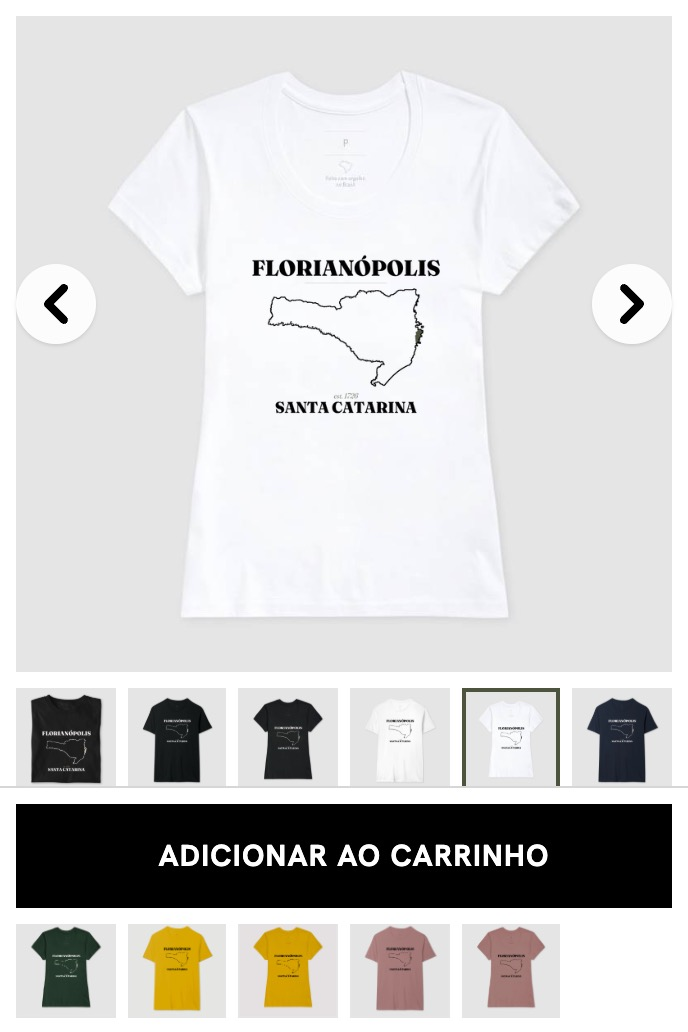
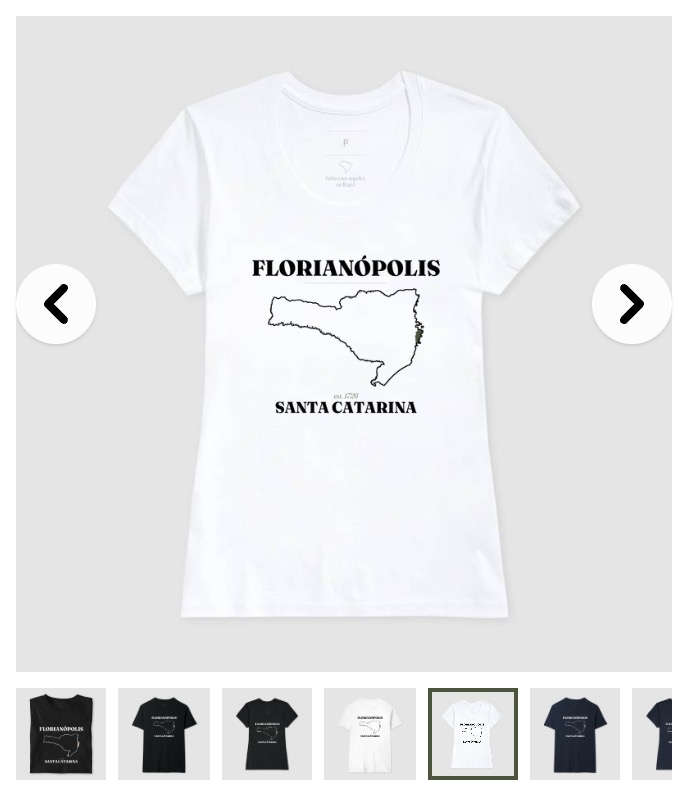
feat(worker): miniaturas da galeria numa linha com rolagem lateral
Pedido do dono: quando as miniaturas não cabem na largura da foto principal,
uma linha com rolagem lateral em vez de quebrar em linhas. ~6,5 visíveis no
celular e ~7,5 no computador (a metade da próxima mostra que há mais; até
84 px), e a miniatura ativa entra na área visível quando a foto muda por
seta, swipe ou troca de cor.

Corrige também a grade que sumia por alguns segundos ao voltar pelo cache do
Turbo: o carrossel da INK se reconecta e refaz a lista de pontos; com o
mesmo produto, a grade agora fica e passa a observar a lista nova.

diff --git a/src/loader/theme-ui.js b/src/loader/theme-ui.js
@@ -9,7 +9,8 @@
 // Restauração do cache do Turbo (voltar/avançar sem nova requisição): o <body> restaurado é o ANTIGO. Por isso vale o último estado vindo da REDE (carga
 // inteira ou visita Turbo que buscou a página): numa restauração, o atributo do body é corrigido para ele — um tema desligado depois não volta pelo cache.
 //
-//   PDP  · Miniaturas da galeria: uma grade abaixo da foto com TODAS as fotos do conjunto nativo, na ordem nativa (mesmas URLs, carregamento preguiçoso).
+//   PDP  · Miniaturas da galeria: uma linha abaixo da foto com TODAS as fotos do conjunto nativo, na ordem nativa (mesmas URLs, carregamento preguiçoso);
+//          quando não cabem na largura da foto, rolagem lateral, e a ativa é trazida para a área visível.
 //          Tocar numa miniatura aciona o ponto nativo correspondente (#dot-image-N); a seleção acompanha `aria-current` dos pontos (setas, swipe, troca de
 //          cor/modelo — a INK pula para a foto da variante). Navegar por fotos NÃO muda a variante comprável (só os rádios mudam). Os pontos nativos só
 //          somem (classe o-thumbs) depois de a grade estar montada; uma foto só = sem grade.
@@ -41,7 +42,7 @@ export const THEME_UI = String.raw`
   let themeObserver = null;
   let themeListening = false;
   let themeOpener = null;
-  let themeGallery = null;  // { host, list, grid, observer, body }
+  let themeGallery = null;  // { host, list, key, grid, observer, body, sync }
   let themeChoosing = null; // { targets, observer }
   let themeMoves = [];      // [{ node, restore }]
   let themeResize = null;
@@ -112,11 +113,21 @@ export const THEME_UI = String.raw`
   function themeWatchGallery() {
     const host = document.querySelector('.section-product-v2 [data-controller~="ink-store--carousel"]');
     const list = host && host.querySelector('ul.absolute.z-30');
-    if (themeGallery && themeGallery.host === host && themeGallery.list === list && themeGallery.body === themeBody() && themeGallery.grid.isConnected) return;
+    const slides = host ? [...host.querySelectorAll('ul.aspect-square > li')] : [];
+    const key = slides.map((li) => { const img = li.querySelector('img'); return img ? img.getAttribute('src') : ''; }).join('|');
+    const g = themeGallery;
+    if (g && g.host === host && g.key === key && g.body === themeBody() && g.grid.isConnected) {
+      // Mesmo produto e mesmas fotos. A INK pode refazer a lista de pontos (ex.: o carrossel se reconecta ao voltar pelo cache do Turbo): a grade FICA e
+      // só passa a observar a lista nova — sem desmontar nem piscar os pontos nativos enquanto os pontos estão incompletos.
+      if (list && g.list !== list) { g.observer.disconnect(); g.list = list; g.observer.observe(list, { attributes: true, attributeFilter: ['aria-current', 'class'], subtree: true, childList: true }); g.sync(); }
+      return;
+    }
+    const dots = list ? [...list.querySelectorAll('button[id^="dot-image-"]')] : [];
+    // Outro produto (ou primeira montagem) com o conjunto ainda incoerente (pontos sendo refeitos): espera a próxima mudança no DOM, sem desmontar o que
+    // for do MESMO produto.
+    if (g && g.host === host && g.key === key && g.grid.isConnected && dots.length !== slides.length) return;
     themeStopGallery();
     if (!host || !list) return;
-    const slides = [...host.querySelectorAll('ul.aspect-square > li')];
-    const dots = [...list.querySelectorAll('button[id^="dot-image-"]')];
     if (slides.length < 2 || dots.length !== slides.length) return; // uma foto só (ou conjunto incoerente): sem grade, a INK fica como está
     const grid = document.createElement('div');
     grid.className = 'o-thumbs';
@@ -142,15 +153,26 @@ export const THEME_UI = String.raw`
       button.addEventListener('click', () => { const dot = document.getElementById('dot-image-' + i); if (dot) dot.click(); });
       grid.appendChild(button);
     });
-    const sync = () => {
-      const current = [...list.querySelectorAll('button[id^="dot-image-"]')].findIndex((d) => d.getAttribute('aria-current') === 'true');
-      grid.querySelectorAll('.o-thumb').forEach((b, i) => { if (i === current) b.setAttribute('aria-current', 'true'); else b.removeAttribute('aria-current'); });
+    const state = { host, list, key, grid, observer: null, body: themeBody(), sync: null };
+    state.sync = () => {
+      const current = [...state.list.querySelectorAll('button[id^="dot-image-"]')].findIndex((d) => d.getAttribute('aria-current') === 'true');
+      if (current < 0) return; // pontos sendo refeitos pela INK: mantém a seleção atual
+      const buttons = [...grid.querySelectorAll('.o-thumb')];
+      buttons.forEach((b, i) => { if (i === current) b.setAttribute('aria-current', 'true'); else b.removeAttribute('aria-current'); });
+      // Linha com rolagem lateral: a miniatura ativa (mudada por seta, swipe ou troca de cor/modelo) entra na área visível — só na horizontal, sem
+      // rolar a página.
+      const active = buttons[current];
+      if (active && grid.scrollWidth > grid.clientWidth) {
+        const left = active.offsetLeft; const right = left + active.offsetWidth; const pad = 8;
+        if (left < grid.scrollLeft) grid.scrollTo({ left: Math.max(0, left - pad), behavior: 'smooth' });
+        else if (right > grid.scrollLeft + grid.clientWidth) grid.scrollTo({ left: right - grid.clientWidth + pad, behavior: 'smooth' });
+      }
     };
-    const observer = new MutationObserver(sync);
-    observer.observe(list, { attributes: true, attributeFilter: ['aria-current', 'class'], subtree: true });
+    state.observer = new MutationObserver(state.sync);
+    state.observer.observe(list, { attributes: true, attributeFilter: ['aria-current', 'class'], subtree: true, childList: true });
     host.insertAdjacentElement('afterend', grid);
-    themeGallery = { host, list, grid, observer, body: themeBody() };
-    sync();
+    themeGallery = state;
+    state.sync();
     // Só agora (grade montada e funcionando) os pontos nativos saem de cena.
     themeBody().classList.add('o-thumbs');
     themeGalleryTop();

diff --git a/src/theme.js b/src/theme.js
@@ -206,12 +206,13 @@ function pdpCss() {
     P + ' .section-product-v2 ul.absolute.z-30{max-width:calc(100% - 16px)}',
     P + ' .section-product-v2 ul.absolute.z-30 > li + li{margin-left:6px!important}',
     P + ' .section-product-v2 button[id^="dot-image-"]{width:8px!important;height:8px!important}',
-    // Miniaturas (theme-ui): TODAS as fotos em grade abaixo da principal, quebrando em linhas (6 por linha no celular, 8 no computador; nunca faixa com
-    // rolagem). A escolhida com borda na cor da região; foco de teclado em tinta. Os pontos nativos só somem depois de a grade existir (classe o-thumbs).
+    // Miniaturas (theme-ui): TODAS as fotos numa LINHA abaixo da principal, na largura dela; quando não cabem, rolagem lateral (decisão do dono,
+    // 15/10/2026). ~6,5 visíveis no celular e ~7,5 no computador: a metade da próxima na borda mostra que há mais. A escolhida com borda na cor da região
+    // (e trazida para a área visível pelo theme-ui); foco de teclado em tinta. Os pontos nativos só somem depois de a grade existir (classe o-thumbs).
     P + '.o-thumbs .section-product-v2 ul.absolute.z-30{visibility:hidden}',
-    P + ' .o-thumbs{display:grid;grid-template-columns:repeat(6,minmax(0,1fr));gap:6px;width:100%;margin-top:8px}',
-    '@media (min-width:1024px){' + P + ' .o-thumbs{grid-template-columns:repeat(8,minmax(0,1fr));gap:8px;margin-top:10px}}',
-    P + ' .o-thumb{position:relative;aspect-ratio:800/820;min-width:44px;min-height:44px;padding:0;border:1px solid transparent;border-radius:var(--o-radius);background:var(--o-photo);overflow:hidden;cursor:pointer}',
+    P + ' .o-thumbs{position:relative;display:grid;grid-auto-flow:column;grid-auto-columns:clamp(44px,calc((100% - 33px) / 6.5),84px);gap:6px;width:100%;margin-top:8px;padding-bottom:6px;overflow-x:auto;overflow-y:hidden;overscroll-behavior-x:contain;scroll-snap-type:x proximity;scrollbar-width:thin;-webkit-overflow-scrolling:touch}',
+    '@media (min-width:1024px){' + P + ' .o-thumbs{grid-auto-columns:calc((100% - 52px) / 7.5);gap:8px;margin-top:10px}}',
+    P + ' .o-thumb{position:relative;scroll-snap-align:start;aspect-ratio:800/820;min-width:44px;min-height:44px;padding:0;border:1px solid transparent;border-radius:var(--o-radius);background:var(--o-photo);overflow:hidden;cursor:pointer}',
     P + ' .o-thumb img{display:block;width:100%;height:100%;object-fit:cover}',
     P + ' .o-thumb[aria-current="true"]{border:2px solid var(--o-selected)}',
     '@media (hover:hover){' + P + ' .o-thumb:hover{border-color:var(--o-line)}' + P + ' .o-thumb[aria-current="true"]:hover{border-color:var(--o-selected)}}',

diff --git a/test/theme-ui.dom.test.js b/test/theme-ui.dom.test.js
@@ -68,6 +68,24 @@ test('miniaturas: TODAS as fotos, na ordem nativa, com as mesmas URLs; a atual a
   assert.equal(t.doc.querySelector('[data-origens-thumbs]').previousElementSibling.getAttribute('data-controller'), 'ink-store--carousel');
 });
 
+test('a INK refaz a lista de pontos (carrossel reconectado ao voltar pelo cache): a grade do MESMO produto fica, sem piscar, e volta a acompanhar', async () => {
+  const t = setup();
+  await tick();
+  const grid = t.doc.querySelector('[data-origens-thumbs]');
+  const old = t.doc.querySelector('.section-product-v2 ul.absolute.z-30');
+  const rebuilt = t.doc.createElement('ul'); rebuilt.className = old.className; // vazia por um instante
+  old.replaceWith(rebuilt);
+  await tick();
+  assert.equal(t.doc.querySelector('[data-origens-thumbs]'), grid, 'mesma grade, não desmontada');
+  assert.ok(body(t).classList.contains('o-thumbs'), 'pontos nativos não piscam');
+  rebuilt.innerHTML = [0, 1, 2].map((i) => '<li><button id="dot-image-' + i + '" type="button" aria-current="' + (i === 1) + '"></button></li>').join('');
+  await tick();
+  assert.equal(t.doc.querySelectorAll('[data-origens-thumbs]').length, 1);
+  assert.deepEqual(thumbs(t).map((b) => b.getAttribute('aria-current')), [null, 'true', null], 'acompanha a lista nova');
+  thumbs(t)[2].click();
+  assert.deepEqual(t.native.dots, ['dot-image-2']);
+});
+
 test('uma foto só = sem grade e sem esconder pontos', async () => {
   const one = FIXTURE.replace(/<li data-ink-store--carousel-target="item"><div id="carousel-item-[23]">.*?<\/li>/g, '').replace(/<li><button id="dot-image-[12]".*?<\/li>/g, '');
   const t = setup({ html: one });

diff --git a/docs/RELATORIO_RODADA_3_GALERIA_E_VALIDACAO_INK.md b/docs/RELATORIO_RODADA_3_GALERIA_E_VALIDACAO_INK.md
@@ -8,8 +8,9 @@ Rodada de 15/10/2026, a partir de `CLAUDE_RODADA_3_GALERIA_E_VALIDACAO_INK.md`, 
 
 | O quê | Onde |
 |---|---|
-| **Galeria com miniaturas**: grade abaixo da foto com TODAS as fotos do conjunto nativo (6 colunas no celular, 8 no computador, quebrando em linhas, nunca faixa com rolagem); selecionada com borda na cor da região; foco de teclado visível; nomes "Foto N de M"; os pontos da INK saem de cena só depois da grade montada; uma foto só = sem grade. Substitui o contador "1 / 17" da rodada 2 | `src/loader/theme-ui.js`, `src/theme.js` |
-| Galeria fixa no computador ajustada à altura da janela (`--o-gal-top`): em telas baixas a galeria sobe até a última miniatura ficar visível; o selo nativo "Clique para dar zoom" fica acima da grade | idem |
+| **Galeria com miniaturas**: TODAS as fotos do conjunto nativo numa **linha** abaixo da foto, na largura dela; quando não cabem, **rolagem lateral** (decisão do dono depois da primeira entrega da rodada, que quebrava em linhas): ~6,5 visíveis no celular e ~7,5 no computador (a metade da próxima na borda mostra que há mais; no máximo 84 px por miniatura); a ativa é trazida para a área visível quando a foto muda por seta, swipe ou troca de cor; selecionada com borda na cor da região; foco de teclado visível; nomes "Foto N de M"; os pontos da INK saem de cena só depois da grade montada; uma foto só = sem grade. Substitui o contador "1 / 17" da rodada 2 | `src/loader/theme-ui.js`, `src/theme.js` |
+| Galeria fixa no computador ajustada à altura da janela (`--o-gal-top`): em telas baixas a galeria sobe até a faixa de miniaturas ficar visível; o selo nativo "Clique para dar zoom" fica acima da faixa | idem |
+| A grade não desmonta quando a INK refaz a lista de pontos do MESMO produto (o carrossel se reconecta ao voltar pelo cache do Turbo e por um instante pontos e fotos ficam incoerentes): antes a grade sumia por alguns segundos e os pontos nativos voltavam; agora ela fica e passa a observar a lista nova | `src/loader/theme-ui.js` |
 | **Desligamento efetivo** (§3 abaixo): escopo do CSS e sinal do loader passam do `<html>` para o `<body>`; o loader só atua com a feature do deploy **e** a superfície ligada na página atual; desligar desfaz tudo; voltar pelo cache do Turbo não religa | `src/worker.js`, `src/theme.js`, `src/loader/theme-ui.js`, `src/loader/discovery-ui.js` |
 | **Ordem de foco = ordem visual**: o `order` do CSS da rodada 2 saiu; prazo, cupom e "Também disponível em" são reposicionados no DOM depois do quadro de compra, e "Guia/Informar medidas" antes da quantidade (mesmo pai; voltam ao lugar ao desligar; um frame que a INK ainda está carregando não é movido) | `src/loader/theme-ui.js` |
 | Flutuantes (Ajuda, WhatsApp, cupons) também saem do caminho enquanto a grade de miniaturas está na tela do celular | idem |
@@ -58,14 +59,15 @@ Medido na PDP real (`florianopolis-legado-sc`, 17 fotos) e em produtos com 3, 4,
 
 | Item | Situação | Justificativa |
 |---|---|---|
-| Miniaturas: todas as fotos, ordem e URLs nativas, 6/8 por linha, sem rolagem lateral, alvos ≥ 44×44 | **Validado localmente** (INK real + Worker local) | 360, 375, 390, 768, 1440 e 1440×680; 3, 5, 17 e 19 fotos |
+| Miniaturas: todas as fotos, ordem e URLs nativas, **uma linha na largura da foto**, rolagem lateral só quando não cabem (17 e 19 fotos: sim; 3 e 5: não), alvos ≥ 44×44, página sem rolagem horizontal | **Validado localmente** (INK real + Worker local) | 360 (45 px), 375 (48), 390 (50), 768 (84), 1440 (83) e 1440×680; 3, 5, 17 e 19 fotos |
+| Miniatura ativa sempre inteira na faixa: depois de clicar a última, de 10× "próxima" (dá a volta), de 12× "anterior" e de trocar a cor estando na última foto | **Validado localmente** | Medido a cada passo (`aria-current` do ponto = miniatura ativa = slide exibido) |
 | 1ª, intermediária e última miniatura; seta nativa; teclado (foco + Enter, anel visível); swipe sintético | **Validado localmente** | Swipe por eventos de toque sintéticos; a miniatura acompanha o que a INK fizer |
 | Foto intermediária → troca de modelo/cor | **Validado localmente** | A INK pula para a foto da variante; a miniatura acompanha; a variante é a dos rádios |
 | Zoom e retorno (computador) | **Validado localmente** | Seleção e grade intactas |
-| Desktop baixo (680 px): últimas miniaturas | **Validado localmente** | `--o-gal-top` −273 px; a última fica visível no fim da coluna |
+| Desktop baixo (680 px): faixa de miniaturas alcançável com a galeria fixa | **Validado localmente** | A galeria sobe (`--o-gal-top` negativo) até a faixa aparecer no fim da coluna |
 | Produto com uma foto | **Validado localmente (DOM)** | Nenhum produto com foto única entre ~60 PDPs varridas; teste de DOM cobre (sem grade, pontos intactos) |
 | Variante indisponível e tamanho invalidado | **Validado localmente** | 4G na Clássica → Baby Look: a INK limpa o tamanho; "P" indisponível tracejado e riscado |
-| Turbo (sem recarregar o documento) para outra PDP, voltar (cache), avançar, atualizar | **Validado localmente** | Uma grade, fotos do produto certo, uma seleção. **Correção de honestidade:** nas rodadas 1 e 2 o "Turbo" do QA era um clique em link de recomendação que fazia **carga inteira** (o harness só passava documentos pelo Worker); agora é `Turbo.visit` de verdade |
+| Turbo (sem recarregar o documento) para outra PDP, voltar (cache), avançar, atualizar | **Validado localmente** | Uma grade, fotos do produto certo, uma seleção; no voltar, a grade fica estável (4/4 repetições, sem intervalo sem grade). **Correção de honestidade:** nas rodadas 1 e 2 o "Turbo" do QA era um clique em link de recomendação que fazia **carga inteira** (o harness só passava documentos pelo Worker); agora é `Turbo.visit` de verdade |
 | Ordem de Tab/Shift+Tab na compra | **Validado localmente** | modelo › cor › tamanho › Guia › Informar › quantidade › CTA › prazo › outros tipos. "Ver cupons disponíveis" é um `<a>` da INK **sem `href`**: não recebe foco nem na INK nativa (limitação nativa) |
 | Liga/desliga por superfície, deploy × painel, mudança no meio, cache do Turbo | **Validado localmente** | §3 |
 | Erros de JS | **Validado localmente** | Nenhum nosso. Após visita Turbo, a INK lança `Identifier 'buttons'/'eventIDViewContent' has already been declared` (scripts inline reexecutados): **igual com o tema desligado** |
@@ -85,9 +87,9 @@ Medido na PDP real (`florianopolis-legado-sc`, 17 fotos) e em produtos com 3, 4,
 
 | Suíte | Resultado |
 |---|---|
-| Worker `npm test` | **559/559** (inclui 10 casos novos do theme-ui: miniaturas, ordem do DOM, frame carregando, desligamento pelo painel, Turbo, cache do Turbo, feature ausente) |
-| `qa-galeria-tema.mjs` (galeria, foco, Turbo) | **141/141** |
-| `preview-tema.mjs --qa` (larguras, barra fixa, Esc, Turbo real, checkout só CSS, campos e botões) | **66/66** |
+| Worker `npm test` | **560/560** (inclui 11 casos novos do theme-ui: miniaturas, lista de pontos refeita pela INK, ordem do DOM, frame carregando, desligamento pelo painel, Turbo, cache do Turbo, feature ausente) |
+| `qa-galeria-tema.mjs` (galeria em linha com rolagem, ativa visível, foco, Turbo) | **163/163** |
+| `preview-tema.mjs --qa` (larguras, barra fixa, Esc, Turbo real, checkout só CSS, campos e botões) | **65/65** (uma verificação só roda quando o quadro de variantes ainda não carregou no toque) |
 | `qa-desligamento-tema.mjs` | **21/21** + **6/6** (mudança no meio) |
 | `estados-tema.mjs` (matriz da rodada 2 refeita) | sem regressão: faixa superior sem sobreposição, símbolo + nome no cabeçalho, variantes, modais, carrinho vazio |
 
@@ -109,6 +111,6 @@ PW_PATH=$HOME/projects/useorigens node scripts/preview-tema.mjs --headed --allow
 - Prévia: o comando acima; capturas e QA: os scripts da seção 5 (`--shots`, `--qa`).
 - Reverter: painel (por superfície, ~1 min para páginas novas), `WIDGET_FEATURES` sem a feature, `wrangler rollback`, rotas do checkout. Sem o tema, galeria, ordem e flutuantes voltam ao nativo; nada fica guardado.
 
-Evidências: `evidence/tema-fluxo-ink/rodada-3/` — `comparativo-galeria-desktop.jpg` e `comparativo-galeria-celular.jpg` (rodada 2 × rodada 3 × tema desligado), `galeria-poucas-e-muitas-fotos.jpg`, `galeria/` (todas as larguras, selecionada, desktop baixo no fim da coluna), estados da PDP e do carrinho vazio, logs `qa-galeria.txt`, `qa-geral.txt`, `qa-desligamento.txt`. **Checkout sem capturas nesta rodada** (só descrição), como pedido.
+Evidências: `evidence/tema-fluxo-ink/rodada-3/` — `comparativo-galeria-desktop.jpg` e `comparativo-galeria-celular.jpg` (rodada 2 × rodada 3 × tema desligado), `galeria-poucas-e-muitas-fotos.jpg` (3 fotos sem rolagem, 19 com rolagem), `galeria/` (360, 390 e 1440 px com a foto 5 ou 12 selecionada e a faixa rolada até ela; desktop baixo no fim da coluna). Capturas sem `fullPage`: a captura de página inteira redimensiona a janela e o carrossel da INK volta à 1ª foto, estados da PDP e do carrinho vazio, logs `qa-galeria.txt`, `qa-geral.txt`, `qa-desligamento.txt`. **Checkout sem capturas nesta rodada** (só descrição), como pedido.
 
 **Pendente para considerar o fluxo pronto:** a validação real do carrinho (adicionar, editar, cupom, frete) e do contato/entrega/pagamento até antes da finalização, feita pelo dono ou com permissão explícita; as duas rotas do checkout (PR próprio); deploys na ordem storefront → painel → Worker.

diff --git a/docs/tema-fluxo-ink.md b/docs/tema-fluxo-ink.md
@@ -49,7 +49,7 @@ PDP com galeria fixa no computador e coluna de compra na ordem da decisão (`ord
 
 ## Rodada 3 (galeria e desligamento)
 
-Miniaturas de TODAS as fotos abaixo da principal (o toque aciona o ponto nativo `#dot-image-N`; a seleção segue `aria-current`; navegar por fotos não muda a variante), galeria fixa ajustada à altura da janela, ordem do DOM = ordem visual (prazo/cupom/outros tipos e medidas reposicionados no mesmo pai, sem mover frame que a INK está carregando) e o desligamento efetivo acima. Detalhes: [`RELATORIO_RODADA_3_GALERIA_E_VALIDACAO_INK.md`](RELATORIO_RODADA_3_GALERIA_E_VALIDACAO_INK.md).
+Miniaturas de TODAS as fotos numa linha abaixo da principal (rolagem lateral quando não cabem; a ativa sempre visível) (o toque aciona o ponto nativo `#dot-image-N`; a seleção segue `aria-current`; navegar por fotos não muda a variante), galeria fixa ajustada à altura da janela, ordem do DOM = ordem visual (prazo/cupom/outros tipos e medidas reposicionados no mesmo pai, sem mover frame que a INK está carregando) e o desligamento efetivo acima. Detalhes: [`RELATORIO_RODADA_3_GALERIA_E_VALIDACAO_INK.md`](RELATORIO_RODADA_3_GALERIA_E_VALIDACAO_INK.md).
 
 ## Prévia e QA (sem publicar nada)
 
